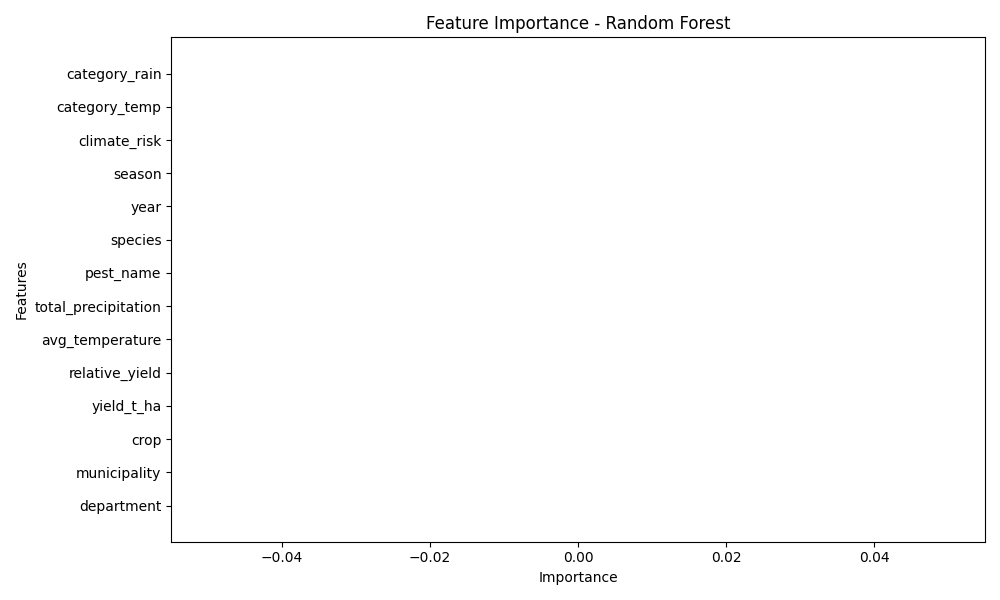
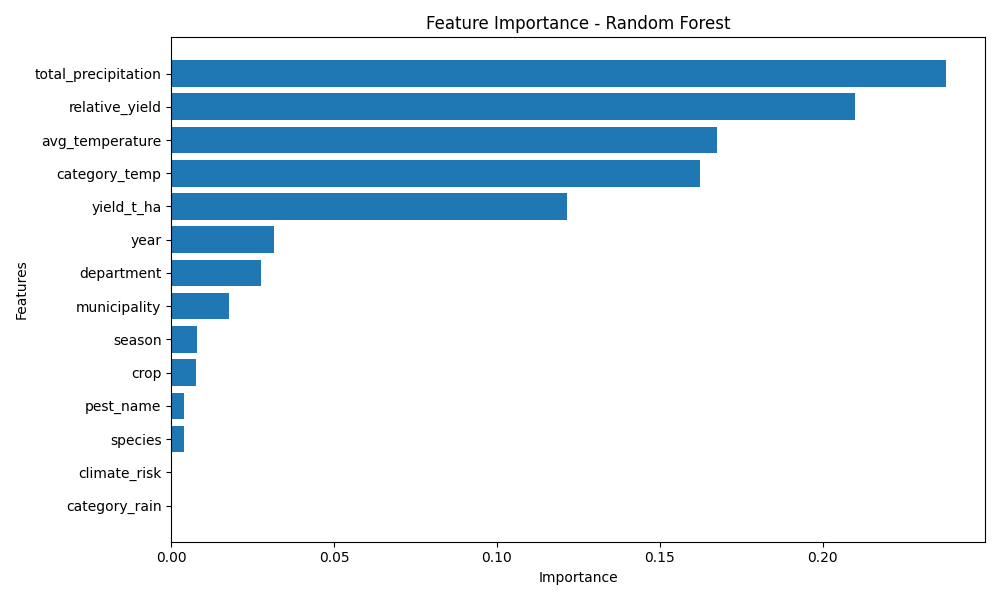
feat(navbar): add model engineering submenu to main navigation

diff --git a/Templates/mainMenu.html b/Templates/mainMenu.html
@@ -71,6 +71,12 @@
             <p>Data preprocessing, feature engineering, normalization, encoding, and transformation pipeline applied before machine learning training.</p>
             <span class="card-arrow">Explore →</span>
         </a>
+        <a href="/pests/modelEngineering" class="menu-card">
+            <div class="card-icon"></div>
+            <h3>Model Engineering</h3>
+            <p>Machine learning model development, training, validation, prediction generation, and Flask integration for agricultural pest alert prediction.</p>
+            <span class="card-arrow">Explore →</span>
+        </a>
     </div>
 </div>
 

diff --git a/Templates/navbar.html b/Templates/navbar.html
@@ -6,5 +6,6 @@
         <a href="/pests/objectives#questions" {% if '/pests' in request.path %}class="active"{% endif %}>Key Questions</a>
         <a href="/pests/objectives#data">Data Sources</a>
         <a href="/pests/dataEngineering"{% if '/pests/dataEngineering' in request.path %}class="active"{% endif %}>Data Engineering</a>
+        <a href="/pests/modelEngineering"{% if '/pests/modelEngineering' in request.path %}class="active"{% endif %}>Model Engineering</a>
     </div>
 </nav>

diff --git a/app.py b/app.py
@@ -1,4 +1,5 @@
 from flask import Flask, render_template
+import pandas as pd
 
 app = Flask(__name__)
 
@@ -13,6 +14,12 @@ def pests_objectives():
 @app.route('/pests/dataEngineering')
 def pests_data():
     return render_template('dataEngineering.html')
+
[email redacted]('/pests/modelEngineering')
+def pests_model():
+    predictions = pd.read_csv("processed_alerts.csv")
+    return render_template('modelEngineering.html',
+                           predictions = predictions.to_dict(orient='records'))
 
 if __name__ == '__main__':
     app.run(debug=True)